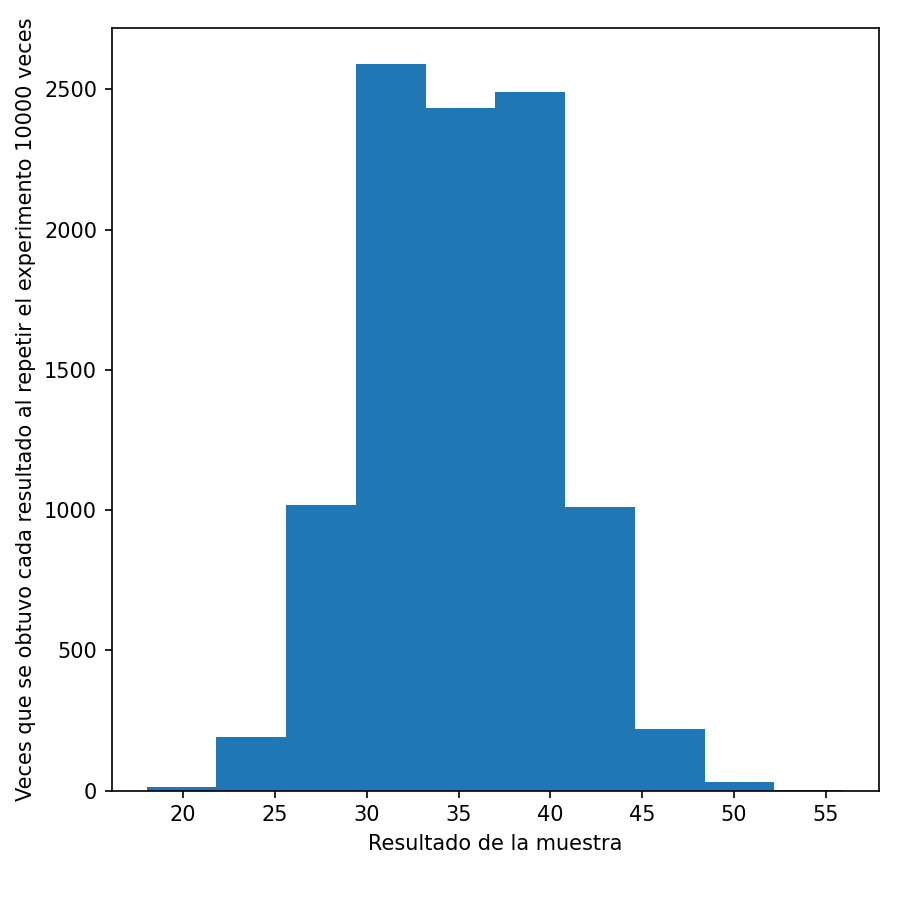
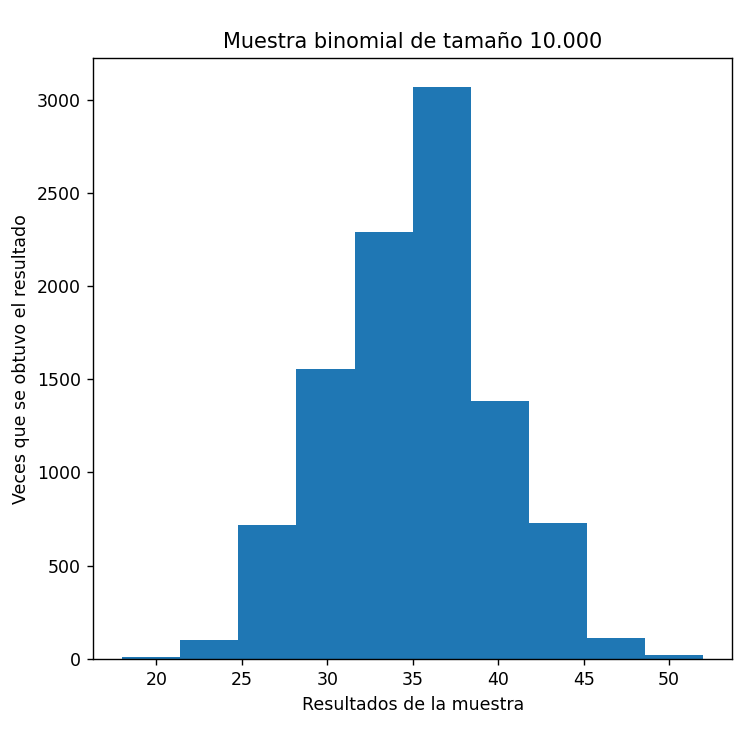
Ahora si todo pronto

diff --git a/main.py b/main.py
@@ -16,12 +16,13 @@ bin100000 = binom.rvs(100, 0.35, size = 100000)
 data = [bin100, bin1000, bin10000, bin100000]
 
 # b-) Genero diagrama de caja
-plt.boxplot(data, vert=False, tick_labels=['100', '1000', '10000', '100000'])
+plt.boxplot(data, vert=False, tick_labels=['100', '1.000', '10.000', '100.000'])
+plt.title("Muestras con distribución binomial")
 plt.ylabel("Tamaño de la muestra")
-plt.xlabel("Resultado de la muestra")
+plt.xlabel("Resultados de la muestra")
 plt.tight_layout()
 plt.gcf().set_size_inches(8, 5)
-plt.savefig("diagrama_caja_binomial", dpi=150)
+plt.savefig("diagrama_caja_binomial", dpi=125)
 plt.close()
 
 # c-) Genero histogramas
@@ -31,27 +32,27 @@ f.generar_histograma_binomial(bin10000)
 f.generar_histograma_binomial(bin100000)
 
 # d-) Calculo mediana y la moda
-print(f"Mediana de las 100 muestras con distribición binomial: {stat.median(bin100)}")
-print(f"Mediana de las 1000 muestras con distribición binomial: {stat.median(bin1000)}")
-print(f"Mediana de las 10000 muestras con distribición binomial: {stat.median(bin10000)}")
-print(f"Mediana de las 100000 muestras con distribición binomial: {stat.median(bin100000)}")
+print(f"Mediana de la muestra con distribución binomial de tamaño 100: {stat.median(bin100)}")
+print(f"Mediana de la muestra con distribución binomial de tamaño 1.000: {stat.median(bin1000)}")
+print(f"Mediana de la muestra con distribución binomial de tamaño 10.000: {stat.median(bin10000)}")
+print(f"Mediana de la muestra con distribución binomial de tamaño 100.000: {stat.median(bin100000)}")
 
-print(f"Moda de las 100 muestras con distribición binomial: {stat.mode(bin100)}")
-print(f"Moda de las 1000 muestras con distribición binomial: {stat.mode(bin1000)}")
-print(f"Moda de las 10000 muestras con distribición binomial: {stat.mode(bin10000)}")
-print(f"Moda de las 100000 muestras con distribición binomial: {stat.mode(bin100000)}")
+print(f"Moda de la muestra con distribución binomial de tamaño 100: {stat.mode(bin100)}")
+print(f"Moda de la muestra con distribución binomial de tamaño 1.000: {stat.mode(bin1000)}")
+print(f"Moda de la muestra con distribución binomial de tamaño 10.000: {stat.mode(bin10000)}")
+print(f"Moda de la muestra con distribución binomial de tamaño 100.000: {stat.mode(bin100000)}")
 
 # e-) Calculo media
-print(f"Media de las 100 muestras con distribición binomial: {stat.mean(bin100)}")
-print(f"Media de las 1000 muestras con distribición binomial: {stat.mean(bin1000)}")
-print(f"Media de las 10000 muestras con distribición binomial: {stat.mean(bin10000)}")
-print(f"Media de las 100000 muestras con distribición binomial: {stat.mean(bin100000)}")
+print(f"Media de la muestra con distribución binomial de tamaño 100: {np.mean(bin100)}")
+print(f"Media de la muestra con distribución binomial de tamaño 1.000: {np.mean(bin1000)}")
+print(f"Media de la muestra con distribución binomial de tamaño 10.000: {np.mean(bin10000)}")
+print(f"Media de la muestra con distribución binomial de tamaño 100.000: {np.mean(bin100000)}")
 
 # f-) Calculo varianza teorica
-print(f"Varianza teórica de las 100 muestras con distribición binomial: {np.var(bin100)}")
-print(f"Varianza teórica de las 1000 muestras con distribición binomial: {np.var(bin1000)}")
-print(f"Varianza teórica de las 10000 muestras con distribición binomial: {np.var(bin10000)}")
-print(f"Varianza teórica de las 100000 muestras con distribición binomial: {np.var(bin100000)}")
+print(f"Varianza teórica de la muestra con distribución binomial de tamaño 100: {np.var(bin100)}")
+print(f"Varianza teórica de la muestra con distribución binomial de tamaño 1.000: {np.var(bin1000)}")
+print(f"Varianza teórica de la muestra con distribución binomial de tamaño 10.000: {np.var(bin10000)}")
+print(f"Varianza teórica de la muestra con distribución binomial de tamaño 100.000: {np.var(bin100000)}")
 
 
 # GEOMTRICA
@@ -64,12 +65,13 @@ geo100000 = geom.rvs(0.08, size = 100000)
 data = [geo100, geo1000, geo10000, geo100000]
 
 # b-) Genero diagrama de caja
-plt.boxplot(data, vert=False, tick_labels=['100', '1000', '10000', '100000'])
+plt.boxplot(data, vert=False, tick_labels=['100', '1.000', '10.000', '100.000'])
+plt.title("Muestras con distribución geométrica")
 plt.ylabel("Tamaño de la muestra")
-plt.xlabel("Resultado de las muestra")
+plt.xlabel("Resultados de las muestra")
 plt.tight_layout()
 plt.gcf().set_size_inches(8, 5)
-plt.savefig("diagrama_caja_geometrica", dpi=150)
+plt.savefig("diagrama_caja_geometrica", dpi=125)
 plt.close()
 
 # c-) Genero histogramas
@@ -79,27 +81,27 @@ f.generar_histograma_geometrica(geo10000)
 f.generar_histograma_geometrica(geo100000)
 
 # d-) Calculo mediana y la moda
-print(f"Mediana de las 100 muestras con distribición geométrica: {stat.median(geo100)}")
-print(f"Mediana de las 1000 muestras con distribición geométrica: {stat.median(geo1000)}")
-print(f"Mediana de las 10000 muestras con distribición geométrica: {stat.median(geo10000)}")
-print(f"Mediana de las 100000 muestras con distribición geométrica: {stat.median(geo100000)}")
+print(f"Mediana de la muestra con distribución geométrica de tamaño 100: {stat.median(geo100)}")
+print(f"Mediana de la muestra con distribución geométrica de tamaño 1.000: {stat.median(geo1000)}")
+print(f"Mediana de la muestra con distribución geométrica de tamaño 10.000: {stat.median(geo10000)}")
+print(f"Mediana de la muestra con distribución geométrica de tamaño 100.000: {stat.median(geo100000)}")
 
-print(f"Moda de las 100 muestras con distribición geométrica: {stat.mode(geo100)}")
-print(f"Moda de las 1000 muestras con distribición geométrica: {stat.mode(geo1000)}")
-print(f"Moda de las 10000 muestras con distribición geométrica: {stat.mode(geo10000)}")
-print(f"Moda de las 100000 muestras con distribición geométrica: {stat.mode(geo100000)}")
+print(f"Moda de la muestra con distribución geométrica de tamaño 100: {stat.mode(geo100)}")
+print(f"Moda de la muestra con distribución geométrica de tamaño 1.000: {stat.mode(geo1000)}")
+print(f"Moda de la muestra con distribución geométrica de tamaño 10.000: {stat.mode(geo10000)}")
+print(f"Moda de la muestra con distribución geométrica de tamaño 100.000: {stat.mode(geo100000)}")
 
 # e-) Calculo media
-print(f"Media de las 100 muestras con distribición geométrica: {stat.mean(geo100)}")
-print(f"Media de las 1000 muestras con distribición geométrica: {stat.mean(geo1000)}")
-print(f"Media de las 10000 muestras con distribición geométrica: {stat.mean(geo10000)}")
-print(f"Media de las 100000 muestras con distribición geométrica: {stat.mean(geo100000)}")
+print(f"Media de la muestra con distribución geométrica de tamaño 100: {np.mean(geo100)}")
+print(f"Media de la muestra con distribución geométrica de tamaño 1.000: {np.mean(geo1000)}")
+print(f"Media de la muestra con distribución geométrica de tamaño 10.000: {np.mean(geo10000)}")
+print(f"Media de la muestra con distribución geométrica de tamaño 100.000: {np.mean(geo100000)}")
 
 # f-) Calculo varianza teorica
-print(f"Varianza teórica de las 100 muestras con distribición geométrica: {np.var(geo100)}")
-print(f"Varianza teórica de las 1000 muestras con distribición geométrica: {np.var(geo1000)}")
-print(f"Varianza teórica de las 10000 muestras con distribición geométrica: {np.var(geo10000)}")
-print(f"Varianza teórica de las 100000 muestras con distribición geométrica: {np.var(geo100000)}")
+print(f"Varianza teórica de la muestra con distribución geométrica de tamaño 100: {np.var(geo100)}")
+print(f"Varianza teórica de la muestra con distribución geométrica de tamaño 1.000: {np.var(geo1000)}")
+print(f"Varianza teórica de la muestra con distribución geométrica de tamaño 10.000: {np.var(geo10000)}")
+print(f"Varianza teórica de la muestra con distribución geométrica de tamaño 100.000: {np.var(geo100000)}")
 
 
 # POISSON
@@ -112,12 +114,13 @@ pois100000 = poisson.rvs(30, size = 100000)
 data = [pois100, pois1000, pois10000, pois100000]
 
 # b-) Genero diagrama de caja
-plt.boxplot(data, vert=False, tick_labels=['100', '1000', '10000', '100000'])
+plt.boxplot(data, vert=False, tick_labels=['100', '1.000', '10.000', '100.000'])
+plt.title("Muestras con distribución de Poisson")
 plt.ylabel("Tamaño de la muestra")
-plt.xlabel("Resultado de la muestra")
+plt.xlabel("Resultados de la muestra")
 plt.tight_layout()
 plt.gcf().set_size_inches(8, 5)
-plt.savefig("diagrama_caja_poisson", dpi=150)
+plt.savefig("diagrama_caja_poisson", dpi=125)
 plt.close()
 
 # c-) Genero histogramas
@@ -127,24 +130,24 @@ f.generar_histograma_poisson(pois10000)
 f.generar_histograma_poisson(pois100000)
 
 # d-) Calculo mediana y la moda
-print(f"Mediana de las 100 muestras con distribición poisson: {stat.median(pois100)}")
-print(f"Mediana de las 1000 muestras con distribición poisson: {stat.median(pois1000)}")
-print(f"Mediana de las 10000 muestras con distribición poisson: {stat.median(pois10000)}")
-print(f"Mediana de las 100000 muestras con distribición poisson: {stat.median(pois100000)}")
+print(f"Mediana de la muestra con distribución poisson de tamaño 100: {stat.median(pois100)}")
+print(f"Mediana de la muestra con distribución poisson de tamaño 1.000: {stat.median(pois1000)}")
+print(f"Mediana de la muestra con distribución poisson de tamaño 10.000: {stat.median(pois10000)}")
+print(f"Mediana de la muestra con distribución poisson de tamaño 100.000: {stat.median(pois100000)}")
 
-print(f"Moda de las 100 muestras con distribición poisson: {stat.mode(pois100)}")
-print(f"Moda de las 1000 muestras con distribición poisson: {stat.mode(pois1000)}")
-print(f"Moda de las 10000 muestras con distribición poisson: {stat.mode(pois10000)}")
-print(f"Moda de las 100000 muestras con distribición poisson: {stat.mode(pois100000)}")
+print(f"Moda de la muestra con distribución poisson de tamaño 100: {stat.mode(pois100)}")
+print(f"Moda de la muestra con distribución poisson de tamaño 1.000: {stat.mode(pois1000)}")
+print(f"Moda de la muestra con distribución poisson de tamaño 10.000: {stat.mode(pois10000)}")
+print(f"Moda de la muestra con distribución poisson de tamaño 100.000: {stat.mode(pois100000)}")
 
 # e-) Calculo media
-print(f"Media de las 100 muestras con distribición poisson: {stat.mean(pois100)}")
-print(f"Media de las 1000 muestras con distribición poisson: {stat.mean(pois1000)}")
-print(f"Media de las 10000 muestras con distribición poisson: {stat.mean(pois10000)}")
-print(f"Media de las 100000 muestras con distribición poisson: {stat.mean(pois100000)}")
+print(f"Media de la muestra con distribución poisson de tamaño 100: {np.mean(pois100)}")
+print(f"Media de la muestra con distribución poisson de tamaño 1.000: {np.mean(pois1000)}")
+print(f"Media de la muestra con distribución poisson de tamaño 10.000: {np.mean(pois10000)}")
+print(f"Media de la muestra con distribución poisson de tamaño 100.000: {np.mean(pois100000)}")
 
 # f-) Calculo varianza teorica
-print(f"Varianza teórica de las 100 muestras con distribición poisson: {np.var(pois100)}")
-print(f"Varianza teórica de las 1000 muestras con distribición poisson: {np.var(pois1000)}")
-print(f"Varianza teórica de las 10000 muestras con distribición poisson: {np.var(pois10000)}")
-print(f"Varianza teórica de las 100000 muestras con distribición poisson: {np.var(pois100000)}")
+print(f"Varianza teórica de la muestra con distribución poisson de tamaño 100: {np.var(pois100)}")
+print(f"Varianza teórica de la muestra con distribución poisson de tamaño 1.000: {np.var(pois1000)}")
+print(f"Varianza teórica de la muestra con distribución poisson de tamaño 10.000: {np.var(pois10000)}")
+print(f"Varianza teórica de la muestra con distribución poisson de tamaño 100.000: {np.var(pois100000)}")

diff --git a/funciones.py b/funciones.py
@@ -1,5 +1,6 @@
 import matplotlib.pyplot as plt
 import statistics as stat
+import locale
 
 def calcular_media(array):
     sum = 0
@@ -46,27 +47,33 @@ def calcula_varianza_empirica(array):
 
 def generar_histograma_binomial(array):
     plt.hist(array)
-    plt.ylabel(f"Veces que se obtuvo cada resultado al repetir el experimento {len(array)} veces")
-    plt.xlabel("Resultado de la muestra")
+    locale.setlocale(locale.LC_ALL, '')
+    plt.title(f"Muestra binomial de tamaño {locale.format('%d', len(array), 1)}")
+    plt.ylabel(f"Veces que se obtuvo el resultado")
+    plt.xlabel("Resultados de la muestra")
     plt.tight_layout()
     plt.gcf().set_size_inches(6, 6)
-    plt.savefig(f"histograma_binomial_{len(array)}", dpi=150)
+    plt.savefig(f"histograma_binomial_{len(array)}", dpi=125)
     plt.close()
     
 def generar_histograma_geometrica(array):
     plt.hist(array)
-    plt.ylabel(f"Veces que se obtuvo cada resultado al repetir el experimento {len(array)} veces")
-    plt.xlabel("Resultado de la muestra")
+    locale.setlocale(locale.LC_ALL, '')
+    plt.title(f"Muestra geométrica de tamaño {locale.format('%d', len(array), 1)}")
+    plt.ylabel(f"Veces que se obtuvo el resultado")
+    plt.xlabel("Resultados de la muestra")
     plt.tight_layout()
     plt.gcf().set_size_inches(6, 6)
-    plt.savefig(f"histograma_geometrica_{len(array)}", dpi=150)
+    plt.savefig(f"histograma_geometrica_{len(array)}", dpi=125)
     plt.close()
 
 def generar_histograma_poisson(array):
     plt.hist(array)
-    plt.ylabel(f"Veces que se obtuvo cada resultado al repetir el experimento {len(array)} veces")
-    plt.xlabel("Resultado de la muestra")
+    locale.setlocale(locale.LC_ALL, '')
+    plt.title(f"Muestra de Poisson de tamaño {locale.format('%d', len(array), 1)}")
+    plt.ylabel(f"Veces que se obtuvo el resultado")
+    plt.xlabel("Resultados de la muestra")
     plt.tight_layout()
     plt.gcf().set_size_inches(6, 6)
-    plt.savefig(f"histograma_poisson_{len(array)}", dpi=150)
+    plt.savefig(f"histograma_poisson_{len(array)}", dpi=125)
     plt.close()
